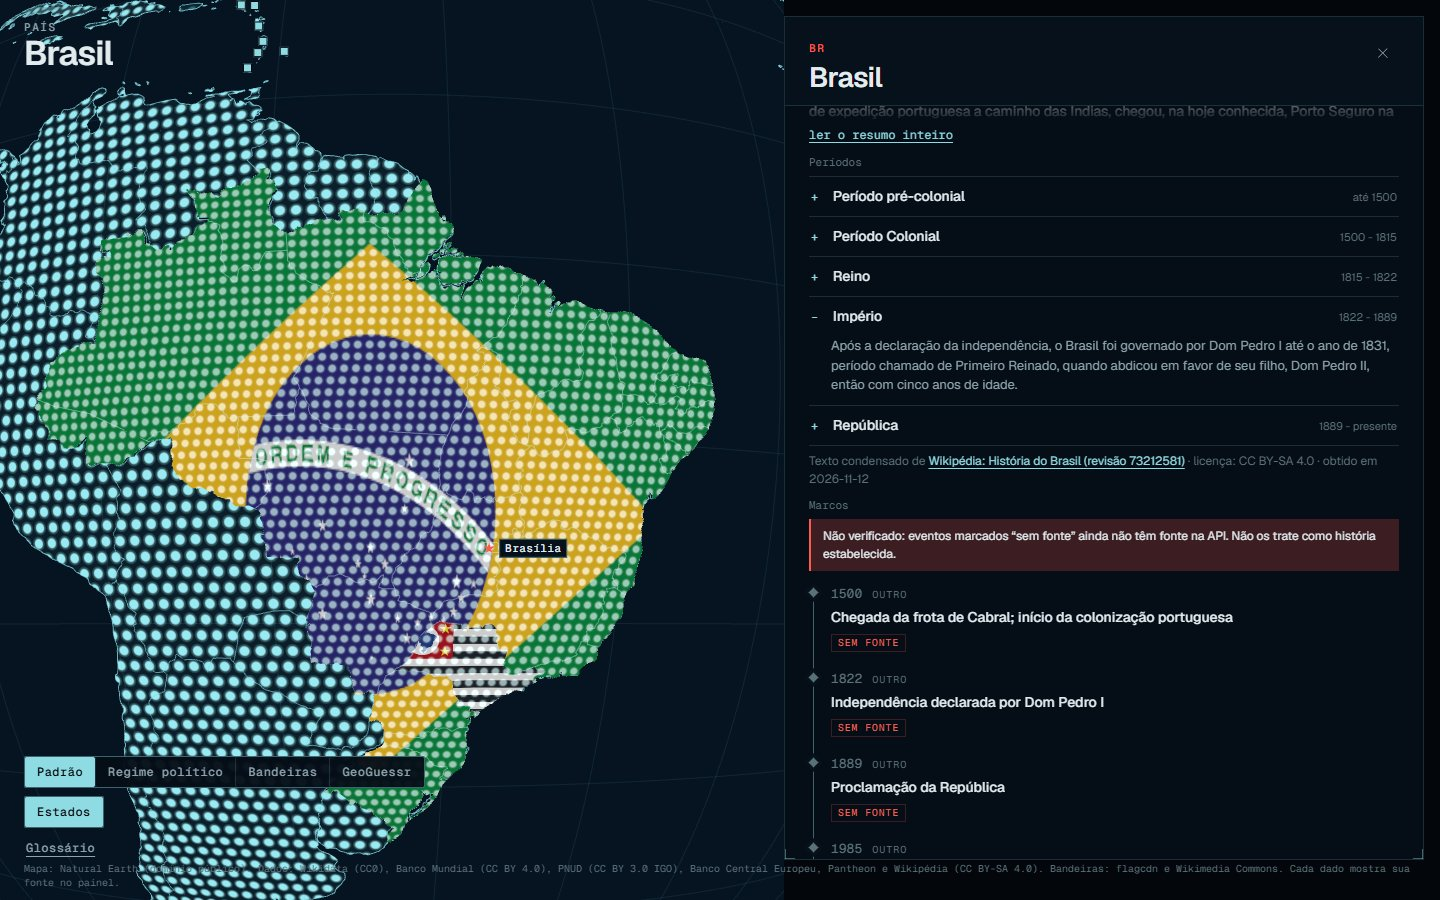
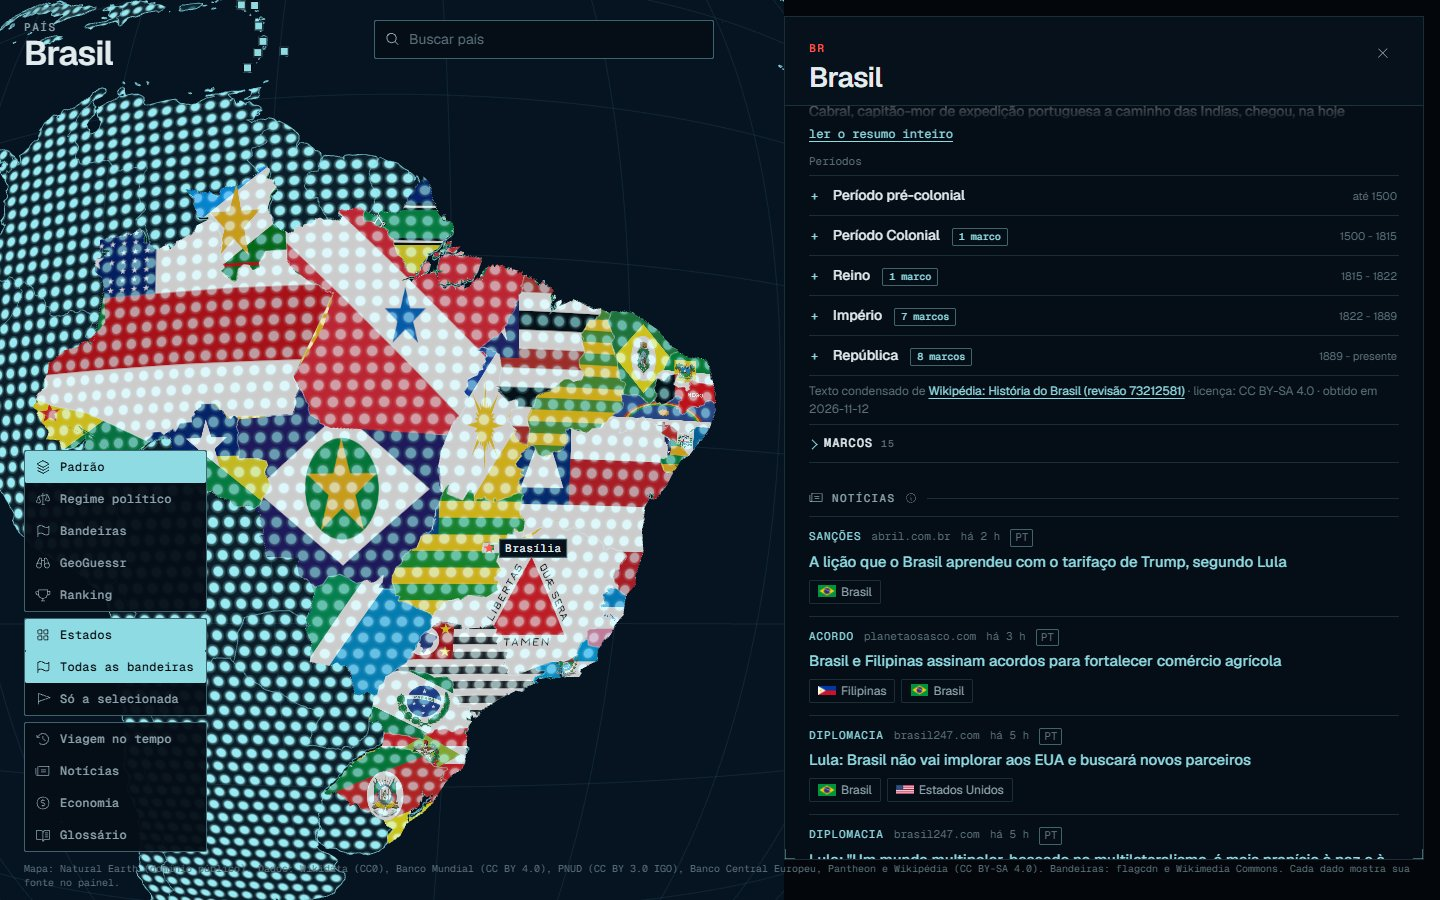
README: economy, ranking, time travel, news; fresh screenshots
New rows and screenshots for "Do que vive a economia", the ranking layer
(fuel exports), time travel (1914) and news; panel row mentions "Em resumo"
and island flags; glossary themes, routes, sources (Cliopatria, GDELT) and
limitations brought up to date. readme-shots.ts takes the four new shots.

diff --git a/scripts/readme-shots.ts b/scripts/readme-shots.ts
@@ -46,6 +46,28 @@ await page.evaluate('window.__globe.pointOfView({ lat: 20, lng: 15, altitude: 1.
 await page.waitForTimeout(3000);
 await shot('regimes');
 
+// spec 027 + 029: the ranking layer on one of the new export indicators (who lives on fuel exports)
+await page.getByRole('button', { name: 'Ranking', exact: true }).click();
+await page.getByLabel('Indicador').selectOption('TX.VAL.FUEL.ZS.UN', { timeout: 60000 });
+await page.waitForTimeout(6000);
+await shot('ranking');
+
+// spec 029: "Do que vive a economia" (Saudi Arabia: fuel exports and oil rent)
+await open('/pais/sa');
+await page.mouse.move(1100, 300);
+await page.locator('.eco-summary').evaluate((e) => e.closest('.psec')!.scrollIntoView({ block: 'start' }));
+await page.waitForTimeout(800);
+await shot('economy');
+
+// spec 012: time travel (starts in 1914)
+await open('/');
+await page.getByRole('button', { name: 'Viagem no tempo', exact: true }).click();
+await page.waitForTimeout(9000);
+await shot('time-travel');
+
+await open('/noticias', false);
+await shot('news');
+
 await open('/glossario', false);
 await shot('glossary');
 

diff --git a/README.md b/README.md
@@ -10,12 +10,16 @@
 
 | | |
 |---|---|
-| ![Painel do Brasil com bandeira sobre o território](docs/screenshots/country.jpg) | **Painel do país.** Clique em qualquer um dos 197 países: a bandeira cobre o território e o painel abre com população, área, densidade, regime político, capital, idiomas, moedas, organizações, governantes atuais e anteriores, pessoas importantes e os indicadores de "como vive o povo" (expectativa de vida, IDH, renda, escolaridade...), cada um com a posição do país no ranking mundial. |
+| ![Painel do Brasil com bandeira sobre o território](docs/screenshots/country.jpg) | **Painel do país.** Clique em qualquer um dos 197 países: a bandeira cobre o território (em arquipélagos, todas as ilhas) e o painel abre com um resumo em poucas frases ("Em resumo", montado só com os dados da página e revisado por IA sem acrescentar fatos), população, área, densidade, regime político, capital, idiomas, moedas, organizações, governantes atuais e anteriores, pessoas importantes e os indicadores de "como vive o povo" (expectativa de vida, IDH, renda, escolaridade...), cada um com a posição do país no ranking mundial. |
+| ![Bloco "Do que vive a economia" da Arábia Saudita: setores, renda do petróleo e exportações](docs/screenshots/economy.jpg) | **Do que vive a economia.** Peso de agropecuária, indústria e serviços no PIB, renda do petróleo e dos recursos naturais, e do que são feitas as exportações (combustíveis, alimentos, minérios, manufaturados, alta tecnologia), com uma frase-resumo montada por regra fixa sobre esses números. |
 | ![Estado de São Paulo selecionado, com a bandeira dele e um cartão com seus dados](docs/screenshots/states.jpg) | **Estados e províncias.** O botão *Estados* libera as subdivisões do país: passe o mouse para ver o nome e a bandeira, clique para cobrir o estado com a bandeira dele e ver capital, população, área e código ISO 3166-2. São 3.754 subdivisões em 240 países. |
 | ![Seção de história do Brasil com resumo, períodos e marcos](docs/screenshots/history.jpg) | **História.** Resumo em texto corrido e períodos expansíveis com datas (Colônia, Reino, Império, República...), condensados do artigo "História de X" da Wikipédia, com link para a revisão exata usada. Abaixo, os marcos curados. |
 | ![Camada de regime político: cada país colorido pelo seu regime, com legenda](docs/screenshots/regimes.jpg) | **Camadas do mapa.** *Regime político* colore os países por forma de governo (paleta categórica testada para daltonismo); *Bandeiras* pinta o mundo inteiro com as bandeiras; *GeoGuessr* destaca onde há Street View. |
+| ![Camada de ranking: países coloridos pela parte dos combustíveis nas exportações, com os 10 maiores](docs/screenshots/ranking.jpg) | **Ranking.** Escolha um dos 37 indicadores (IDH, PIB per capita, expectativa de vida, peso dos combustíveis nas exportações...) e o globo pinta cada país pela sua faixa, com os 10 maiores ao lado. |
+| ![O mundo em 1914 na viagem no tempo, com o controle de anos](docs/screenshots/time-travel.jpg) | **Viagem no tempo.** Um controle de anos de 3400 a.C. a 2024 troca o mapa pelas fronteiras da época (Cliopatria), com um estilo de mapa para cada era. |
+| ![Página de notícias geopolíticas com filtros por tipo, região e idioma](docs/screenshots/news.jpg) | **Notícias.** Manchetes geopolíticas do mundo (conflitos, eleições, diplomacia, sanções...) atualizadas a cada 6 horas, com filtros e os países citados; cada país mostra as suas no painel. |
 | ![Página de câmbio do real com gráfico em base 100 contra dólar e euro](docs/screenshots/currency.jpg) | **Moedas e câmbio.** Cada moeda tem uma página com conversor, até quatro moedas comparadas em base 100 e histórico de 1 ano, 5 anos ou desde 1999 (Banco Central Europeu). |
-| ![Glossário organizado por temas, com índice lateral](docs/screenshots/glossary.jpg) | **Glossário.** Todo termo do painel tem um ⓘ com a explicação. O glossário reúne os verbetes por tema (repúblicas, monarquias, regimes de exceção, regiões, organizações), com índice e exemplos clicáveis que levam o globo até o país. |
+| ![Glossário organizado por temas, com índice lateral](docs/screenshots/glossary.jpg) | **Glossário.** Todo termo do painel tem um ⓘ com a explicação. O glossário reúne os verbetes por tema (repúblicas, monarquias, regimes de exceção, correntes políticas, sistemas de governo, regiões, organizações, moedas, economia e indicadores), com índice e exemplos clicáveis que levam o globo até o país. |
 
 Também tem pistas para o GeoGuessr (lado da direção, DDI, domínio, placas, alfabeto, cobertura do Street View, hemisfério) e link para o guia Plonk It de cada país.
 
@@ -30,7 +34,7 @@ Também tem pistas para o GeoGuessr (lado da direção, DDI, domínio, placas, a
 ```mermaid
 flowchart LR
   subgraph Fontes
-    WD[Wikidata] --- WB[Banco Mundial e PNUD] --- WP[Wikipédia] --- ECB[BCE] --- PT[Pantheon]
+    WD[Wikidata] --- WB[Banco Mundial e PNUD] --- WP[Wikipédia] --- ECB[BCE] --- PT[Pantheon] --- CL[Cliopatria] --- GD[GDELT]
   end
   Fontes -->|ETL em Python| API[(Atlas API<br/>FastAPI + Postgres)]
   NE[Natural Earth] -->|scripts/build-data.ts| GEO[public/data<br/>geometria estática]
@@ -78,7 +82,7 @@ NEXT_PUBLIC_API_URL=https://atlas-api.fastapicloud.dev
 ## Estrutura
 
 ```
-app/              rotas: / (globo), /pais/[iso2], /moeda/[code], /glossario; ícone do site
+app/              rotas: / (globo), /pais/[iso2], /moeda/[code], /economia, /noticias, /ideias/[id], /glossario; ícone do site
 src/
   Shell.tsx       globo, leitor do topo, camadas e rodapé, montados uma vez no layout
   components/     Globe, CountryPanel, SubdivisionCard, HistorySummary, Profile, CurrencyPage...
@@ -96,7 +100,8 @@ Toda funcionalidade começa como uma spec em [`specs/`](specs/README.md), que pa
 
 ## Limitações conhecidas
 
-- **Viagem no tempo** (fronteiras históricas com um controle deslizante de anos) está planejada ([spec 012](specs/012-time-travel.md)) e ainda não existe.
+- **Viagem no tempo** mostra fronteiras e nomes de cada época; os fatos de cada Estado antigo (bandeira, governantes) ainda não ([spec 012](specs/012-time-travel.md)). Fronteiras antigas são aproximadas.
+- **O que o país exporta produto a produto e com quem negocia** ainda não aparece; está planejado com os dados do BACI ([spec 029](specs/029-economy-structure-trade.md), fase 2).
 - **Regime político:** o texto vem de um seed antigo ainda não verificado, e a legenda avisa isso.
 - **Fronteiras disputadas** (Kosovo, Taiwan, Crimeia) seguem o Natural Earth. Territórios sem código ISO (Somalilândia, Chipre do Norte) não têm dados.
 - **No celular,** o painel vira uma folha inferior e o rodapé de atribuições fica oculto.
@@ -112,6 +117,8 @@ Toda funcionalidade começa como uma spec em [`specs/`](specs/README.md), que pa
 | [Banco Central Europeu](https://www.ecb.europa.eu/) | câmbio | reuso livre com citação |
 | [Wikipédia](https://pt.wikipedia.org/) | resumos de história, cobertura do Street View | CC BY-SA 4.0 |
 | [Pantheon](https://pantheon.world/) | pessoas importantes | CC BY-SA 4.0 |
+| [Cliopatria](https://github.com/Seshat-Global-History-Databank/cliopatria) (Seshat) | fronteiras históricas | CC BY 4.0 |
+| [GDELT](https://www.gdeltproject.org/) | manchetes geopolíticas | uso livre com citação |
 | [flagcdn](https://flagpedia.net/) · [Wikimedia Commons](https://commons.wikimedia.org/) | bandeiras de países · bandeiras de estados | domínio público · licença por arquivo, mostrada junto da imagem |
 
 O código está sob a licença [MIT](LICENSE).

diff --git a/specs/028-polish-round-4.md b/specs/028-polish-round-4.md
@@ -1,5 +1,5 @@
 # 028 - Rodada de polimento 4 (controles inferiores, carregamento do globo)
-Status: done (verificado local com screenshots desktop e mobile; README pendente, último item) (aprovada pelo dono em 2026-11-15: "pode fazer oq ta pendente agora") | Repos: web | Contrato: sem mudança | API: não depende
+Status: done (verificado local com screenshots desktop e mobile; README atualizado) (aprovada pelo dono em 2026-11-15: "pode fazer oq ta pendente agora") | Repos: web | Contrato: sem mudança | API: não depende
 
 ## Pedidos e o que fazer
 | Pedido | O que fazer |
@@ -28,7 +28,7 @@ Status: done (verificado local com screenshots desktop e mobile; README pendente
 - [x] Carregamento redesenhado (etapas, curiosidades rotativas)
 - [x] Remover o modo "ao lado" e o CSS antigo do carregamento
 - [x] Typecheck, testes (69), build (204 páginas), screenshots (desktop e mobile)
-- [ ] README (último)
+- [x] README (último; feito em 2026-11-15 com screenshots novos)
 
 ## Decisões abertas
 - Nenhuma. Escolhas tomadas: a entrada direta também bloqueia (o globo é a entrada do Atlas); o escape de 20 s mantém o site utilizável em máquinas lentas.

diff --git a/specs/README.md b/specs/README.md
@@ -33,7 +33,7 @@ Regras:
 | 023 | [Polimento 2 (estados finos e opcionais, bandeiras sem API, favicon, governantes, glossário por tema, painel)](023-polish-round-2.md) | não | done |
 | 024 | [Estados: bandeira e dados por subdivisão](024-subdivisions-data.md) | sim | fase 1 done |
 | 025 | [Chatbot do Atlas](025-chatbot.md) | sim | draft |
-| 028 | [Rodada de polimento 4 (controles inferiores, carregamento do globo)](028-polish-round-4.md) | não | done (README pendente) |
+| 028 | [Rodada de polimento 4 (controles inferiores, carregamento do globo)](028-polish-round-4.md) | não | done |
 | 029 | [Do que vive a economia: setores, exportações, parceiros](029-economy-structure-trade.md) | sim (fase 2) | approved |
 
 Plano de execução e checklist: [PLAN.md](PLAN.md). Avaliação de stack: [ADR-001-stack.md](ADR-001-stack.md).
